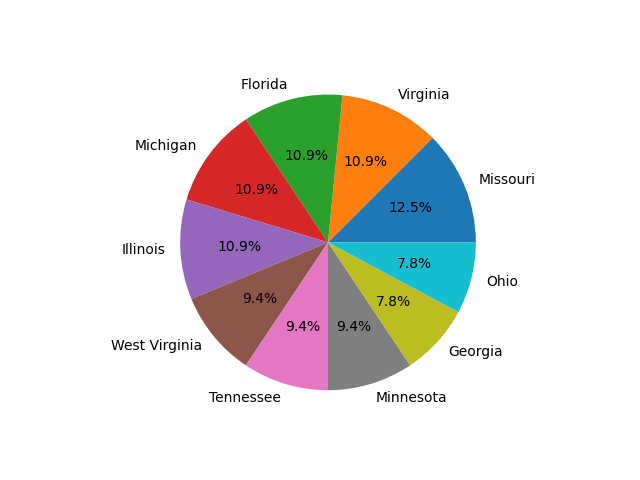
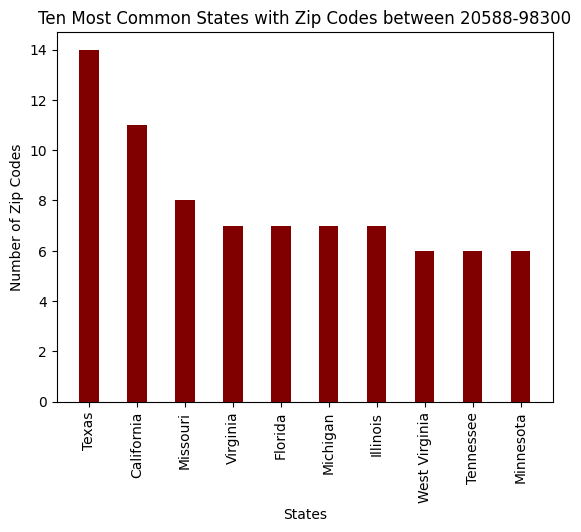
change to bar chart

diff --git a/data.py b/data.py
@@ -41,8 +41,12 @@ def main():
         state_list.append(i[0])
         count_list.append(i[1])
 
-    plt.pie(count_list[:10], labels = state_list[:10], autopct='%1.1f%%')
-    plt.savefig('visual1.png')
+    plt.bar(state_list[:10], count_list[:10], color ='maroon', width = 0.4)
+    plt.xlabel("States")
+    plt.ylabel("Number of Zip Codes")
+    plt.xticks(rotation=90)
+    plt.title("Ten Most Common States with Zip Codes between 20588-98300")
+    plt.savefig('visual1.png', bbox_inches="tight")
 
 if __name__ == "__main__":
     main()
